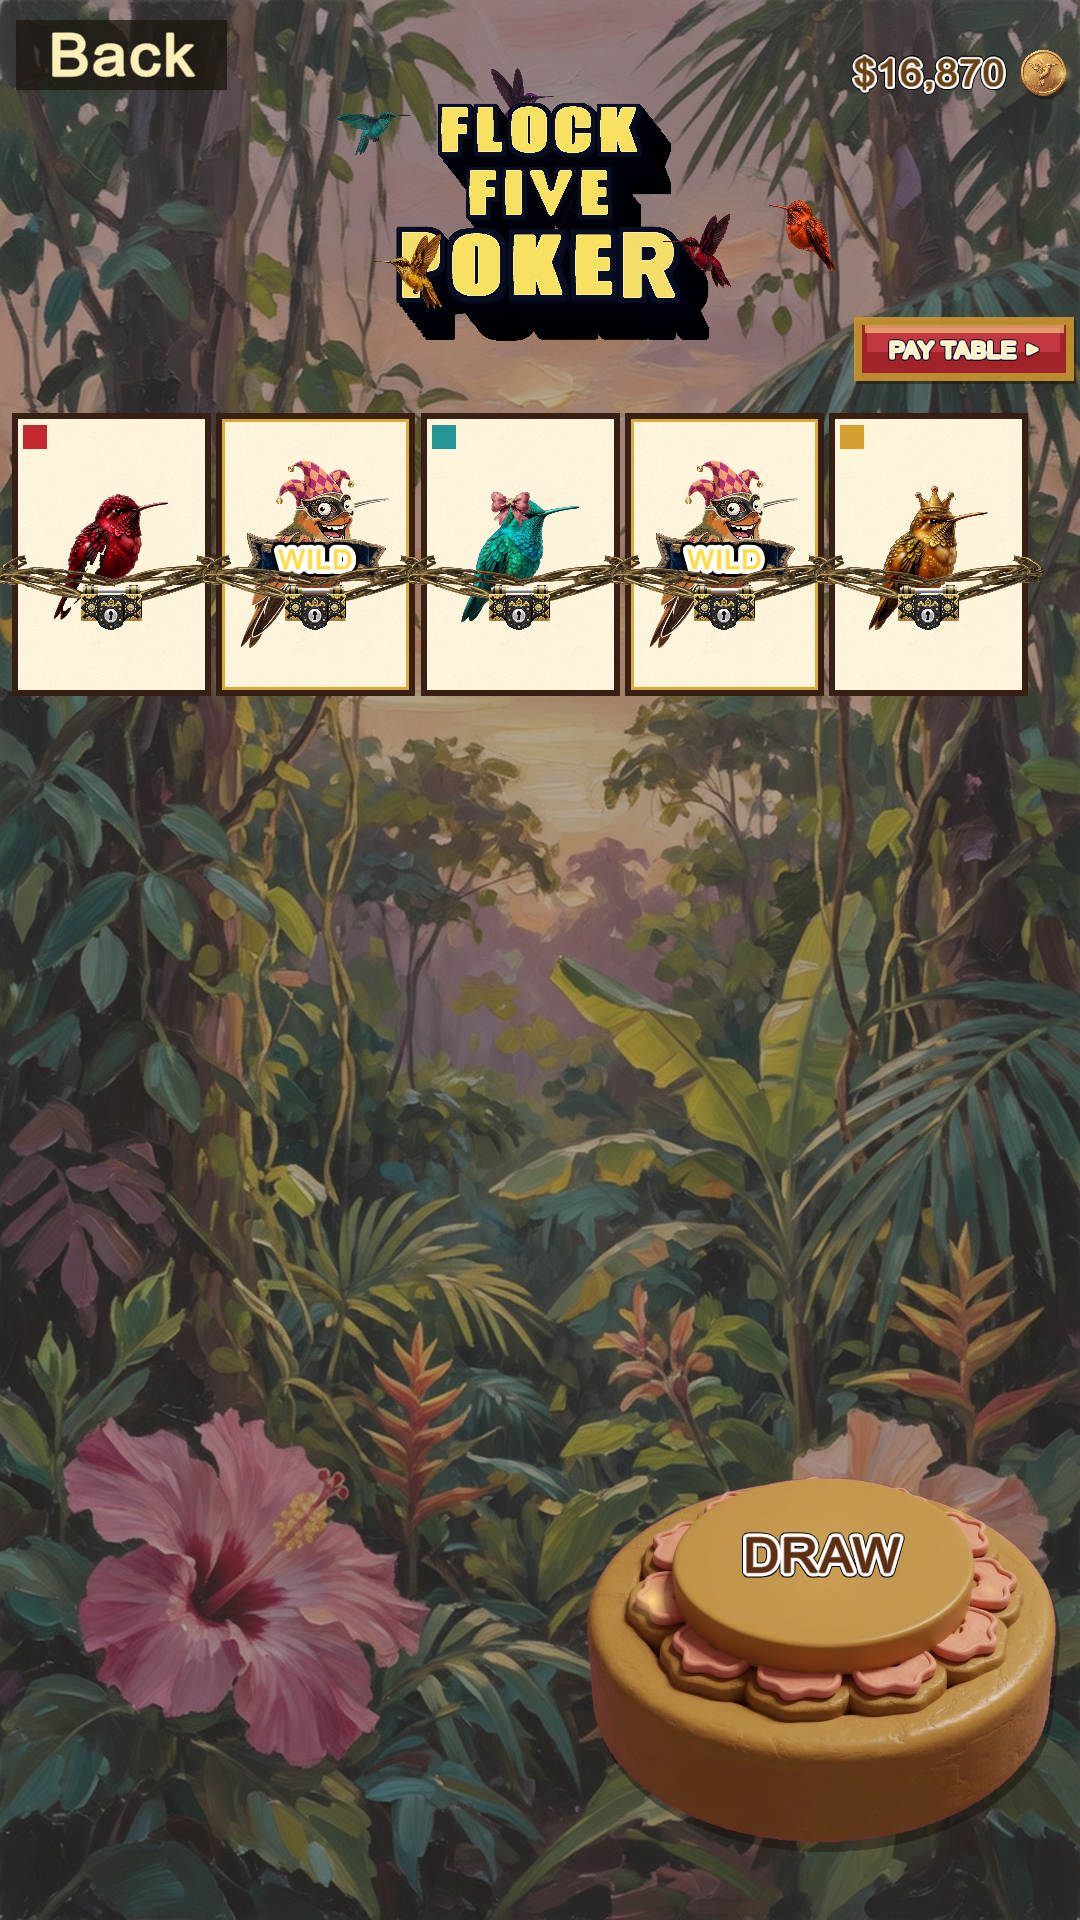
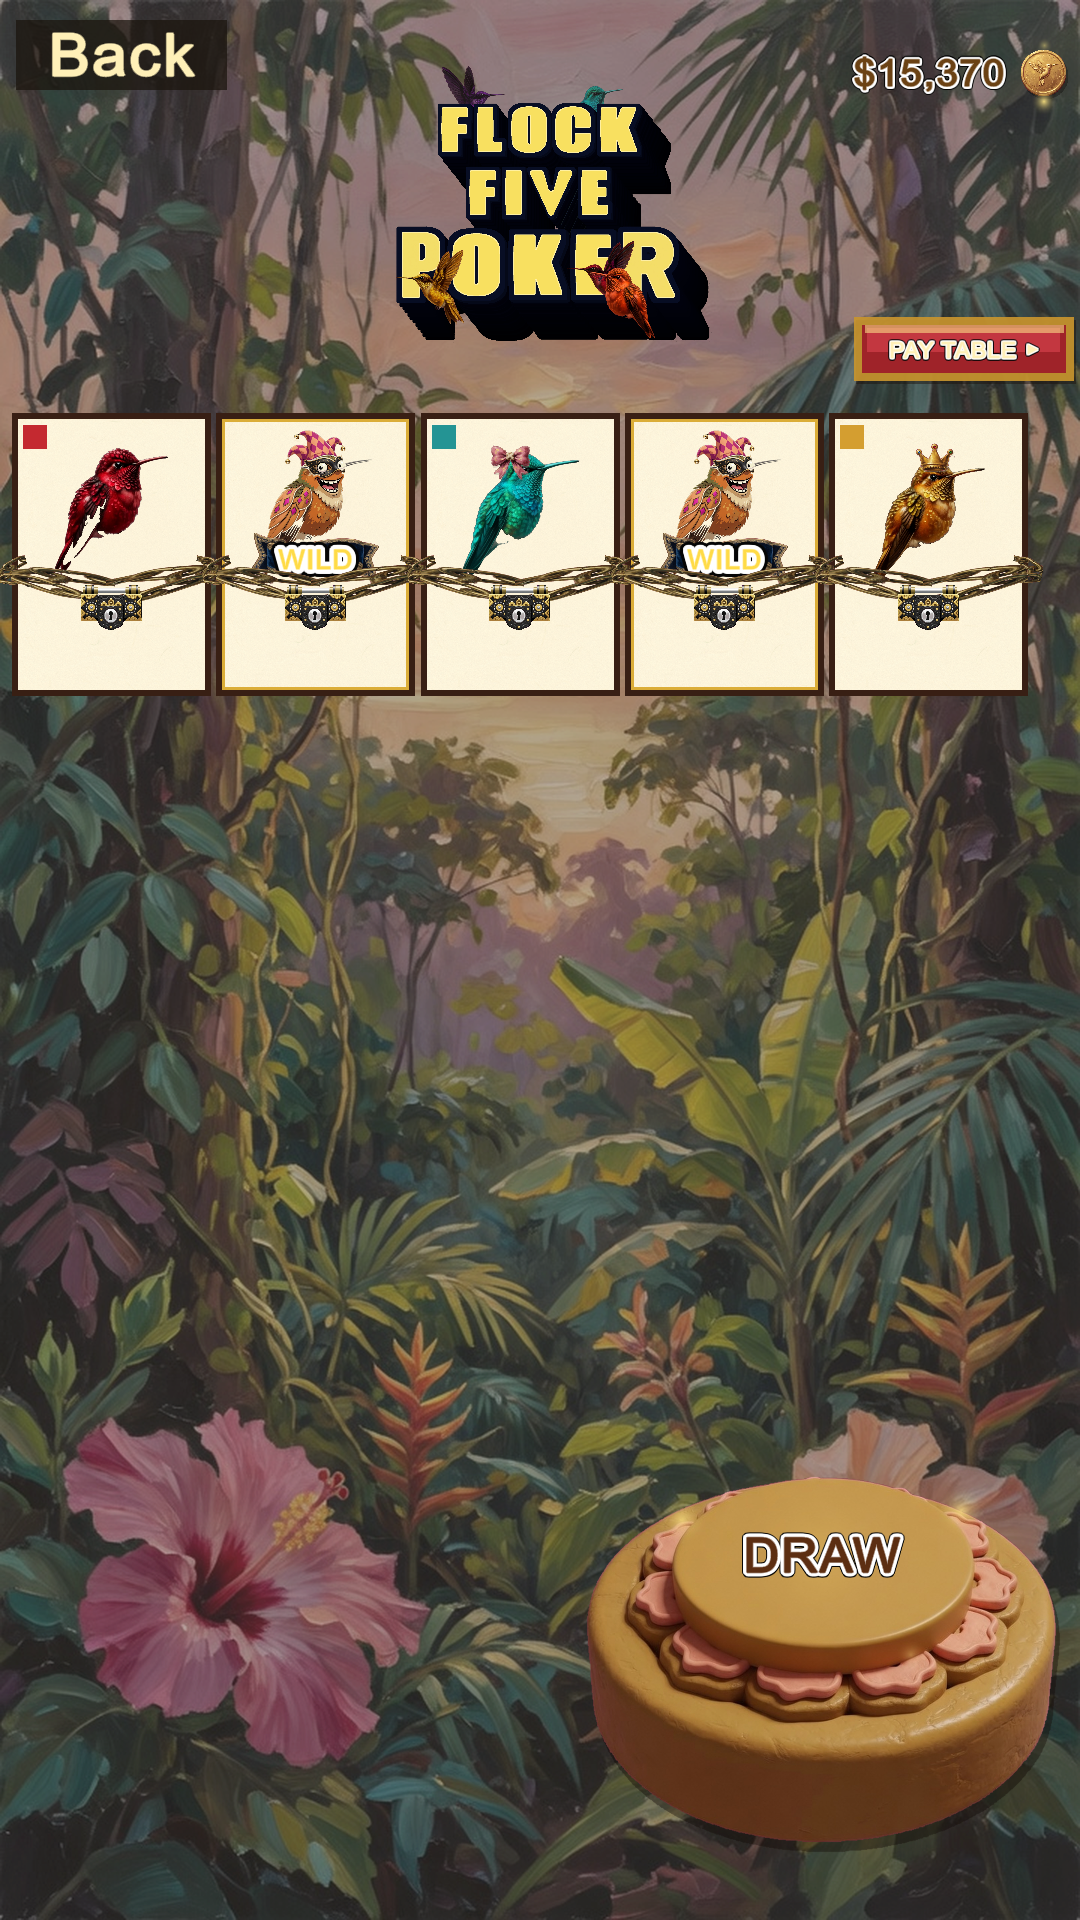
Poker: pass 19 — singular card sprite, thumb top
Each live card is one fused texture (face+bird). DrawPokerFace
never blits SpriteCatalog.Bird. Birds sit in the upper card so
the pinch zone is cream paper under the thumb.

Playrun DONE 3/3, mid=0.

diff --git a/Assets/_Project/Scripts/App/FlockFiveApp.cs b/Assets/_Project/Scripts/App/FlockFiveApp.cs
@@ -1011,7 +1011,7 @@ namespace FlockFive
         {
             System.IO.Directory.CreateDirectory(dir);
             SpriteCatalog.DropPokerArt();
-            Debug.Log("Flock Five: ShotPokerFaces start " + dir + " pass18-layers-hq");
+            Debug.Log("Flock Five: ShotPokerFaces start " + dir + " pass19-singular-card");
             _home = HomeFace.Poker;
             _splash = true;
             _pokerPayOpen = false;
@@ -5978,24 +5978,17 @@ namespace FlockFive
 
         static void DrawPokerFace(Rect r, BirdPoker.Card card, float s, bool sparkle = true)
         {
-            // One authored art object per live card — never bird-on-face at runtime.
+            // Singular sprite: cream + bird + pip already one texture.
+            // Never SpriteCatalog.Bird / ScaleToFit bird-on-face here.
             var fused = SpriteCatalog.PokerFace(card);
-            if (fused != null && fused.texture != null)
-            {
-                // Opaque fill so letterbox/alpha cannot show palm through the card.
-                GUI.color = new Color(0.22f, 0.12f, 0.08f, 1f);
-                GUI.DrawTexture(r, Texture2D.whiteTexture);
-                GUI.color = Color.white;
-                GUI.DrawTexture(r, fused.texture, ScaleMode.StretchToFill, true);
-                if (card.Wild)
-                {
-                    var inner = new Rect(r.x + 2.6f * s, r.y + 2.6f * s, r.width - 5.2f * s, r.height - 5.2f * s);
-                    DrawWildLabel(inner, s);
-                }
-                return;
-            }
-            DrawCardPaper(r, card.Wild);
+            if (fused == null || fused.texture == null) return;
             GUI.color = Color.white;
+            GUI.DrawTexture(r, fused.texture, ScaleMode.StretchToFill, false);
+            if (card.Wild)
+            {
+                var inner = new Rect(r.x + 2.6f * s, r.y + 2.6f * s, r.width - 5.2f * s, r.height - 5.2f * s);
+                DrawWildLabel(inner, s);
+            }
         }
 
         static void DrawCardSheen(Rect inner, float phase)
